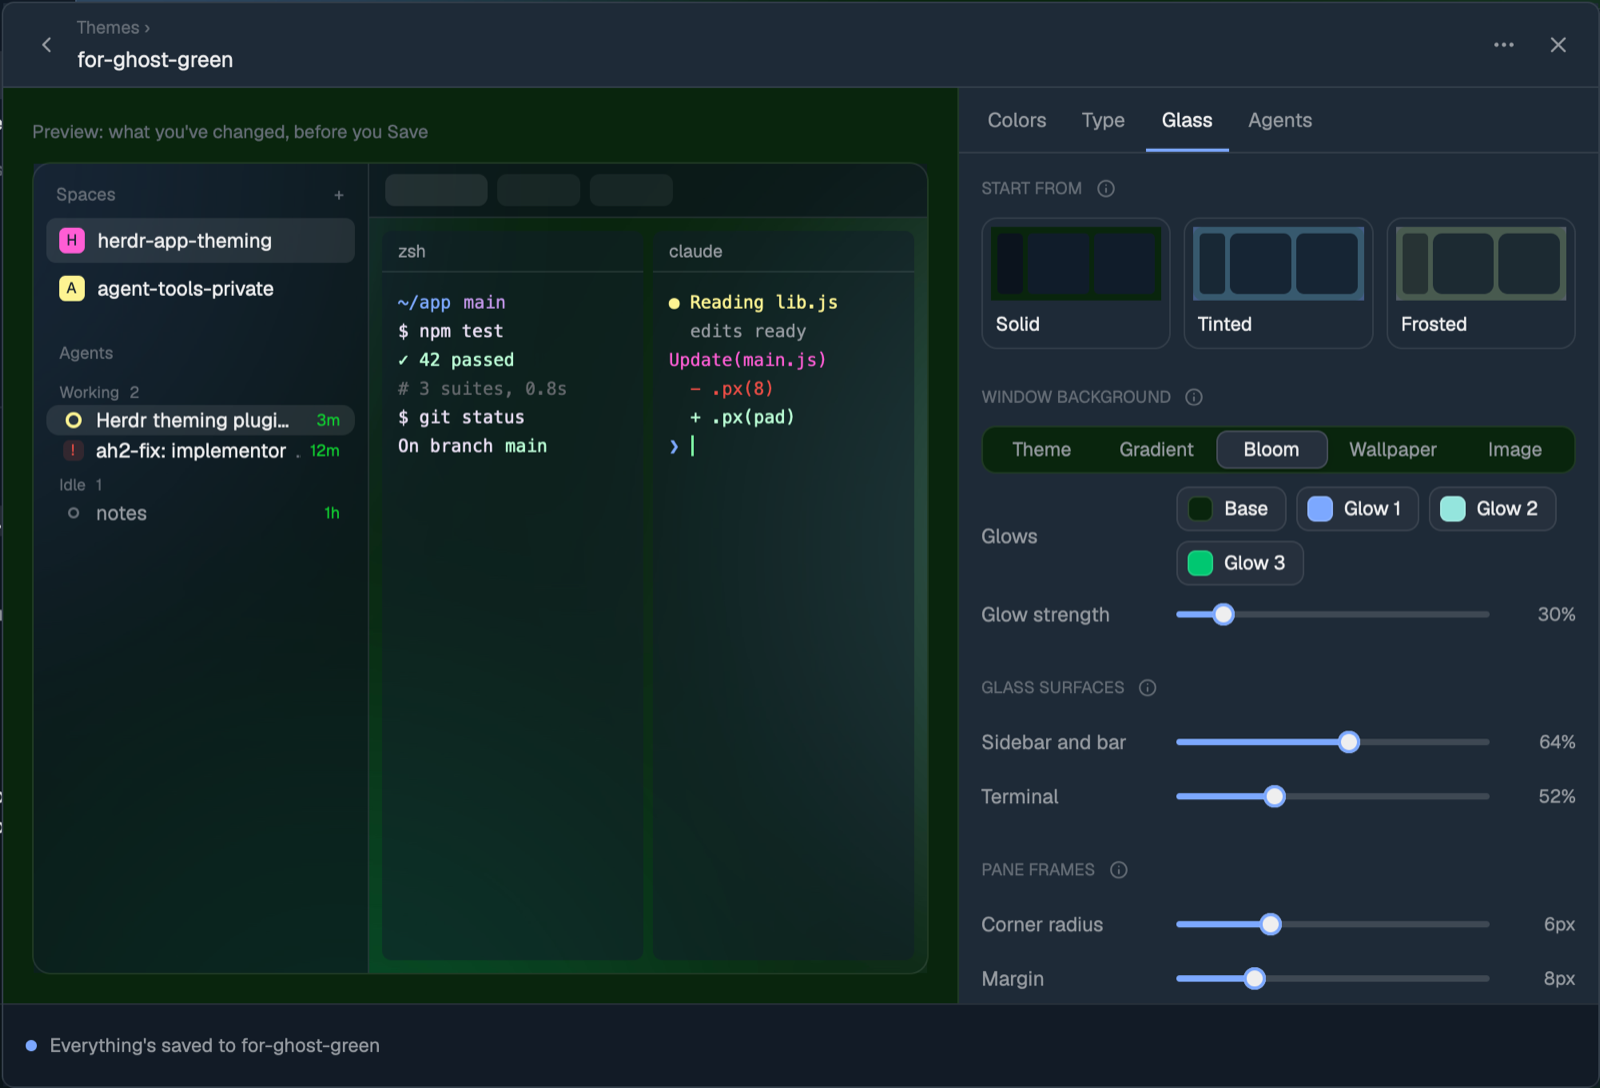
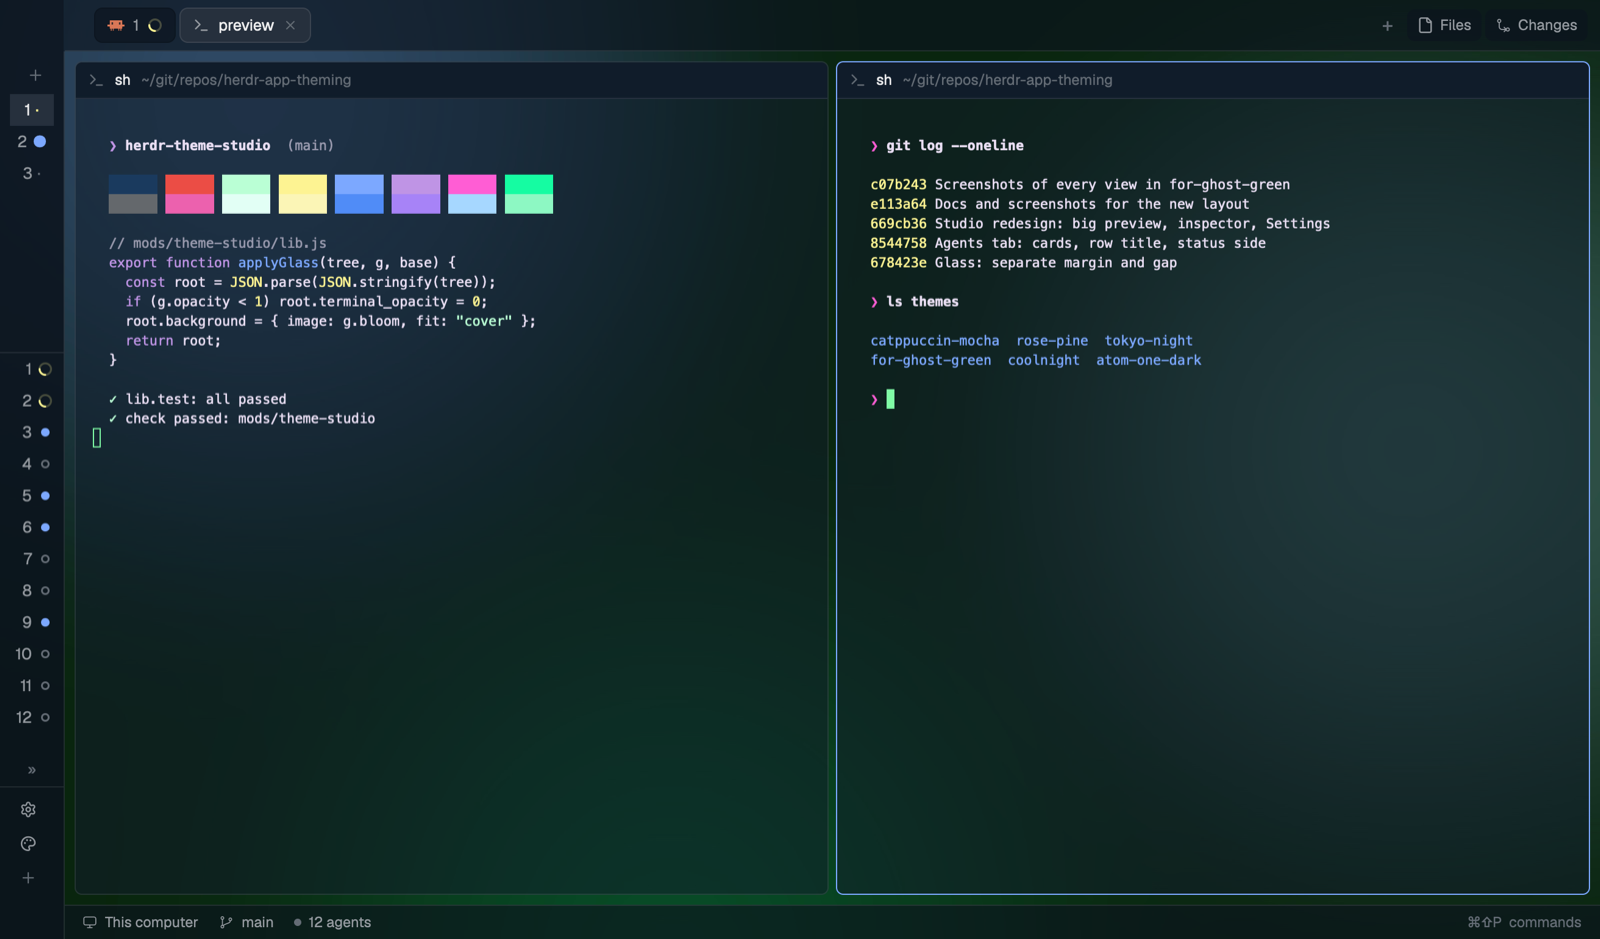
Hero picture of Herdr in for-ghost-green; the Studio window drags again
- preview.png (the README hero and the herdr.dev gallery picture) is now the
  Herdr window itself in for-ghost-green, on a demo tab, instead of the editor.
- The redesign stopped every press in the header and the bottom bar, so the
  overlay window couldn't be dragged. Only the buttons, the breadcrumb and
  the name input stop presses now; the rest of the header, the bar and the
  preview move the window.

Claude-Session: https://claude.ai/code/session_01C6jtLMUvmADjTbxwyPycKJ

diff --git a/mods/theme-studio/main.js b/mods/theme-studio/main.js
@@ -1040,15 +1040,17 @@ export default class ThemeStudio extends View {
       ? { colors: () => this.colorsTab(t, s, cx), type: () => this.typeTab(t, s, cx), glass: () => this.glassTab(t, s, cx), agents: () => this.agentsTab(t, s, cx) }[this.tab]()
       : this.view === "settings" ? this.settingsView(t) : this.libraryView(t, s, cx);
     const pinned = edit ? this.pinnedEditor(t) : null;
+    // A press nothing stops drags the window (Herdr's overlay windows), so the header and the bar
+    // move it; their buttons, inputs and the breadcrumb stop their own presses.
     return v_flex().id("root").size_full().bg(t.popover).text_color(t.foreground).text_size(13)
-      .child(stop(this.header(t, s, overlay)))
+      .child(this.header(t, s, overlay))
       .child(h_flex().flex_1().min_h(0).border_t_1().border_color(t.border)
         .child(this.canvas(t, s))
         .child(stop(v_flex().w(400).flex_none().h_full().min_h(0)
           .when(edit, (el) => el.child(this.tabBar(t)))
           .when(!!pinned, (el) => el.child(pinned))
           .child(v_flex().id("body").flex_1().min_h(0).overflow_y_scrollbar().px(14).pt(14).pb(20).gap(22).child(panel)))))
-      .child(stop(this.footer(t, cx)));
+      .child(this.footer(t, cx));
   }
 
   // Back from the editor asks first (in the bottom bar) when there's something unsaved.
@@ -1074,13 +1076,13 @@ export default class ThemeStudio extends View {
       ? h_flex().gap(4).items_center().min_w(0)
         .child(this.iconButton("back", "back", "Back to the themes", t, (_e, cx) => this.goTo("themes", cx)))
         .child(v_flex().min_w(0)
-          .child(div().id("crumb").text_size(11).text_color(t.dim).cursor_pointer().hover((st) => st.text_color(t.foreground)).on_click((_e, cx) => this.goTo("themes", cx)).child("Theme Studio ›"))
+          .child(div().id("crumb").on_mouse_down("left", (_e, cx) => cx.stop_propagation()).text_size(11).text_color(t.dim).cursor_pointer().hover((st) => st.text_color(t.foreground)).on_click((_e, cx) => this.goTo("themes", cx)).child("Theme Studio ›"))
           .child(div().text_size(13.5).font_semibold().child("Settings")))
       : edit
       ? h_flex().gap(4).items_center().min_w(0)
         .child(this.iconButton("back", "back", "Back to the themes", t, (_e, cx) => this.back(cx)))
         .child(v_flex().min_w(0)
-          .child(div().id("crumb").text_size(11).text_color(t.dim).cursor_pointer().hover((st) => st.text_color(t.foreground)).on_click((_e, cx) => this.back(cx)).child("Themes ›"))
+          .child(div().id("crumb").on_mouse_down("left", (_e, cx) => cx.stop_propagation()).text_size(11).text_color(t.dim).cursor_pointer().hover((st) => st.text_color(t.foreground)).on_click((_e, cx) => this.back(cx)).child("Themes ›"))
           .child(h_flex().gap(6).items_center().min_w(0)
             .child(div().text_size(13.5).font_semibold().truncate().child(this.editing))
             .when(!own, (el) => el.child(div().flex_none().px(5).rounded(5).border_1().border_color(t.border).text_size(10.5).text_color(t.dim).child("Herdr's")))))
@@ -1170,7 +1172,7 @@ export default class ThemeStudio extends View {
     const name = this.selected(), mine = this.isOwn(name), staged = !!this.themeDraft;
     if (ask && ask.kind === "copy") return bar(h_flex().flex_1().min_w(0).gap(8).items_center()
         .child(div().flex_none().text_size(12).text_color(t.muted).child(`Copy ${ask.from} as`))
-        .child(Input.new(this.copyName).flex_1().h(30).px(8).rounded(7).border_1().border_color(t.input).bg(t.background).text_color(t.foreground)),
+        .child(div().flex_1().on_mouse_down("left", (_e, cx) => cx.stop_propagation()).child(Input.new(this.copyName).w_full().h(30).px(8).rounded(7).border_1().border_color(t.input).bg(t.background).text_color(t.foreground))),
       this.button("ask-cancel", "Cancel", t, (_e, cx) => { this.ask = null; cx.notify(); }, "ghost"),
       this.button("copy-go", "Copy", t, (_e, cx) => this.copyTheme(ask.from, this.copyName.value(), cx), true));
     if (ask && ask.kind === "delete") return bar(note(`Delete ${name}? Its file in themes/ goes too.`, t.blocked, t.foreground),
